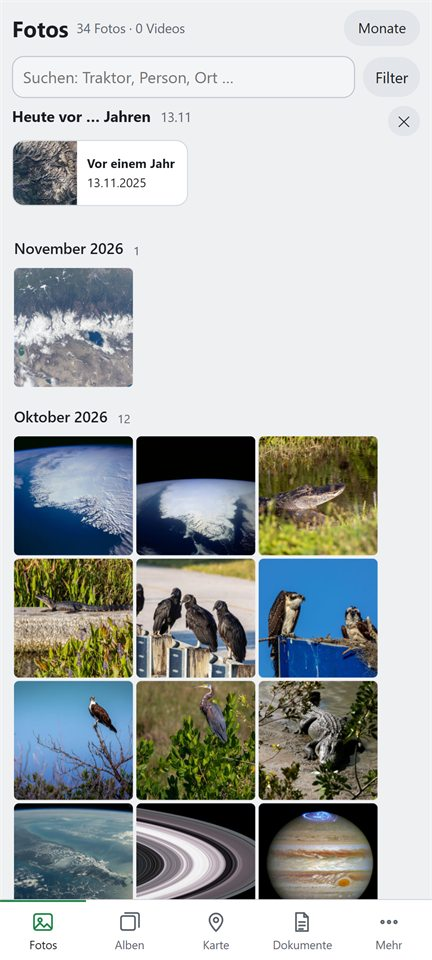
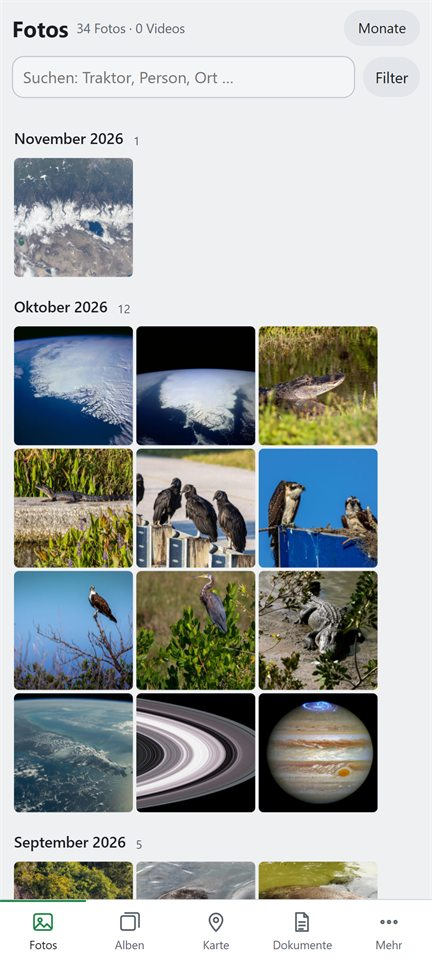
Webseite: Nutzungsbedingungen DE/EN, Bild 1 ohne Rueckblick
nutzungsbedingungen.html und terms.html neu, Link in der Fusszeile;
Bild 1 und Untertitel "Nach Tag, Monat oder Jahr." / "By day, month or year."

diff --git a/nutzungsbedingungen.html b/nutzungsbedingungen.html
@@ -1,0 +1,89 @@
+<!doctype html>
+<html lang="de">
+<head>
+<meta charset="utf-8">
+<meta name="viewport" content="width=device-width, initial-scale=1">
+<title>Unforget – Nutzungsbedingungen</title>
+<link rel="alternate" hreflang="en" href="terms.html">
+<style>
+  :root { --bg:#ffffff; --fg:#1d2024; --muted:#5b636d; --line:#dde1e6; --accent:#1f8a4c; --box:#f3f5f7; }
+  @media (prefers-color-scheme: dark) { :root { --bg:#1d2024; --fg:#e8eaed; --muted:#a6adb6; --line:#363b42; --accent:#4cc27e; --box:#262a30; } }
+  body { margin:0; background:var(--bg); color:var(--fg); font:16px/1.6 system-ui, -apple-system, "Segoe UI", Roboto, sans-serif; }
+  main { max-width:760px; margin:0 auto; padding:24px 16px 64px; }
+  h1 { font-size:1.7em; margin:0 0 4px; } h2 { font-size:1.2em; margin:32px 0 8px; }
+  .lang { float:right; font-size:.9em; } a { color:var(--accent); }
+  .meta { color:var(--muted); margin:0 0 24px; }
+  ul { padding-left:1.3em; } li { margin:4px 0; }
+</style>
+</head>
+<body>
+<main>
+<a class="lang" href="terms.html" lang="en">English</a>
+<p style="margin:0 0 8px"><a href="de.html">← Unforget Startseite</a></p>
+<h1>Nutzungsbedingungen</h1>
+<p class="meta">für die App Unforget (Windows und Android) · Stand: 16. November 2026</p>
+
+<h2>1. Anbieter und Geltung</h2>
+<p>Unforget wird angeboten von MT-Automation, Inhaber Michael Thallmayer, Österreich (vollständige Angaben im
+<a href="impressum.html">Impressum</a>). Diese Bedingungen gelten für die Nutzung der App, egal ob du sie über Google Play,
+über GitHub oder über diese Webseite bekommst. Für Google Play gelten zusätzlich die Bedingungen von Google.</p>
+
+<h2>2. Kostenlos, Urheberrecht</h2>
+<p>Unforget ist kostenlos. Es gibt kein Konto, kein Abo, keine Werbung und keine Käufe in der App.</p>
+<p>Unforget ist urheberrechtlich geschützt. Enthaltene Teile anderer Hersteller haben eigene Lizenzen
+(<i>Einstellungen → Über → Lizenzen anzeigen</i>).</p>
+
+<h2>3. Verarbeitung nur auf deinem Gerät</h2>
+<p>Unforget verarbeitet deine Fotos, Videos und Dokumente auf deinem Gerät: Vorschaubilder, Gesichter, Texterkennung und
+Suche laufen lokal. Es werden keine Fotos oder Dokumente an uns oder an Dritte übertragen. Der Abgleich zwischen Handy und PC
+läuft direkt zwischen deinen Geräten im eigenen WLAN.</p>
+<p>Einige Funktionen nutzen auf deinen Wunsch das Internet; sie sind in der App mit 🌐 gekennzeichnet und anfangs aus
+(z. B. Kartenhintergrund und Ortsnamen von OpenStreetMap, Zusatzpakete und Updates von GitHub). Dafür gelten zusätzlich die
+Bedingungen dieser Dienste. Einzelheiten stehen in der <a href="datenschutz.html">Datenschutzerklärung</a>.</p>
+
+<h2>4. Deine Dateien</h2>
+<ul>
+  <li>Unforget liest deine Dateien. Verschoben, umbenannt, verändert oder gelöscht wird nur, wenn du es selbst auslöst
+    (z. B. Ordnen, Löschen, Bearbeiten „statt des Originals“, Ordner für den Handy-Abgleich).</li>
+  <li>Vor dem Ordnen zeigt die App eine Vorschau; ein Lauf lässt sich im Verlauf zurücknehmen.</li>
+  <li>Gelöschte Dateien kommen zuerst in den Papierkorb von Unforget und lassen sich von dort wiederherstellen. Endgültig
+    gelöscht wird erst, wenn du den Papierkorb leerst.</li>
+  <li>Du bist dafür verantwortlich, dass du die Dateien verwenden darfst, die du mit Unforget verwaltest oder weitergibst
+    (z. B. beim Teilen von Alben).</li>
+</ul>
+
+<h2>5. Sicherungen</h2>
+<p>Wir empfehlen dringend, von wichtigen Fotos und Dokumenten regelmäßig eine Sicherung anzulegen, die unabhängig von Unforget
+ist – zum Beispiel auf einer externen Festplatte oder einem NAS. Auch die Fotosicherung über den Handy-Abgleich ersetzt keine
+zweite, getrennte Sicherung, weil beide Geräte gleichzeitig verloren gehen oder beschädigt werden können.</p>
+
+<h2>6. Verfügbarkeit und Änderungen</h2>
+<p>Wir entwickeln Unforget laufend weiter. Es besteht kein Anspruch auf bestimmte Funktionen, auf Updates oder auf eine
+unterbrechungsfreie Verfügbarkeit von Downloads und Online-Funktionen. Updates installierst du selbst (über Google Play oder
+nach Rückfrage in der App).</p>
+
+<h2>7. Haftung</h2>
+<p>Unforget wird unentgeltlich überlassen. Wir haften im gesetzlich zulässigen Rahmen nach österreichischem Recht. Für leicht
+fahrlässig verursachte Schäden haften wir nicht. Diese Einschränkung gilt nicht</p>
+<ul>
+  <li>bei Vorsatz und grober Fahrlässigkeit,</li>
+  <li>bei Schäden an Leben, Körper oder Gesundheit (Personenschäden),</li>
+  <li>soweit zwingende gesetzliche Bestimmungen etwas anderes vorsehen, insbesondere das Produkthaftungsgesetz und das
+    Konsumentenschutzgesetz. Deine Rechte als Verbraucherin oder Verbraucher bleiben unberührt.</li>
+</ul>
+
+<h2>8. Anwendbares Recht</h2>
+<p>Es gilt österreichisches Recht unter Ausschluss der Verweisungsnormen und des UN-Kaufrechts. Bist du Verbraucherin oder
+Verbraucher mit gewöhnlichem Aufenthalt in einem anderen Staat, bleibt dir der Schutz der zwingenden Bestimmungen dieses
+Staates erhalten.</p>
+
+<h2>9. Änderungen dieser Bedingungen</h2>
+<p>Wir können diese Bedingungen anpassen, etwa bei neuen Funktionen. Die jeweils aktuelle Fassung steht auf dieser Seite, mit
+Datum.</p>
+
+<h2>10. Kontakt</h2>
+<p>Fragen und Rückmeldungen: <a href="mailto:support@mt-automation.at">support@mt-automation.at</a> oder in der App unter
+<i>Einstellungen → Über → Problem melden</i>.</p>
+</main>
+</body>
+</html>

diff --git a/terms.html b/terms.html
@@ -1,0 +1,87 @@
+<!doctype html>
+<html lang="en">
+<head>
+<meta charset="utf-8">
+<meta name="viewport" content="width=device-width, initial-scale=1">
+<title>Unforget – Terms of use</title>
+<link rel="alternate" hreflang="de" href="nutzungsbedingungen.html">
+<style>
+  :root { --bg:#ffffff; --fg:#1d2024; --muted:#5b636d; --line:#dde1e6; --accent:#1f8a4c; --box:#f3f5f7; }
+  @media (prefers-color-scheme: dark) { :root { --bg:#1d2024; --fg:#e8eaed; --muted:#a6adb6; --line:#363b42; --accent:#4cc27e; --box:#262a30; } }
+  body { margin:0; background:var(--bg); color:var(--fg); font:16px/1.6 system-ui, -apple-system, "Segoe UI", Roboto, sans-serif; }
+  main { max-width:760px; margin:0 auto; padding:24px 16px 64px; }
+  h1 { font-size:1.7em; margin:0 0 4px; } h2 { font-size:1.2em; margin:32px 0 8px; }
+  .lang { float:right; font-size:.9em; } a { color:var(--accent); }
+  .meta { color:var(--muted); margin:0 0 24px; }
+  ul { padding-left:1.3em; } li { margin:4px 0; }
+</style>
+</head>
+<body>
+<main>
+<a class="lang" href="nutzungsbedingungen.html" lang="de">Deutsch</a>
+<p style="margin:0 0 8px"><a href="index.html?en">← Unforget home</a></p>
+<h1>Terms of use</h1>
+<p class="meta">for the Unforget app (Windows and Android) · Last updated: 16 November 2026 · The German version is legally binding.</p>
+
+<h2>1. Provider and scope</h2>
+<p>Unforget is provided by MT-Automation, owner Michael Thallmayer, Austria (full details in the <a href="imprint.html">imprint</a>).
+These terms apply to the use of the app, whether you get it from Google Play, from GitHub or from this website. For Google Play,
+Google’s terms apply as well.</p>
+
+<h2>2. Free of charge, copyright</h2>
+<p>Unforget is free. There is no account, no subscription, no advertising and no in-app purchases.</p>
+<p>Unforget is protected by copyright. Included components by other authors have their own licenses
+(<i>Settings → About → Show licenses</i>).</p>
+
+<h2>3. Processing on your device only</h2>
+<p>Unforget processes your photos, videos and documents on your device: thumbnails, faces, text recognition and search run
+locally. No photos or documents are transferred to us or to third parties. Sync between phone and PC runs directly between your
+devices on your own Wi-Fi.</p>
+<p>Some features use the internet if you turn them on; they are marked with 🌐 in the app and off by default (for example the map
+background and place names from OpenStreetMap, add-on packs and updates from GitHub). The terms of those services apply as well.
+Details are in the <a href="privacy.html">privacy policy</a>.</p>
+
+<h2>4. Your files</h2>
+<ul>
+  <li>Unforget reads your files. Files are only moved, renamed, changed or deleted when you trigger it yourself
+    (for example Organize, Delete, Edit “replace original”, folders for phone sync).</li>
+  <li>Before organizing, the app shows a preview; a run can be undone from the history.</li>
+  <li>Deleted files first go to Unforget’s trash and can be restored from there. They are only deleted for good when you empty
+    the trash.</li>
+  <li>You are responsible for having the right to use the files you manage or share with Unforget (for example when sharing
+    albums).</li>
+</ul>
+
+<h2>5. Backups</h2>
+<p>We strongly recommend keeping a regular backup of important photos and documents that is independent of Unforget – for example
+on an external drive or a NAS. The photo backup via phone sync does not replace a second, separate backup either, because both
+devices can be lost or damaged at the same time.</p>
+
+<h2>6. Availability and changes</h2>
+<p>We keep developing Unforget. There is no entitlement to particular features, to updates or to uninterrupted availability of
+downloads and online features. You install updates yourself (via Google Play or after confirming in the app).</p>
+
+<h2>7. Liability</h2>
+<p>Unforget is provided free of charge. We are liable to the extent permitted by law under Austrian law. We are not liable for
+damage caused by slight negligence. This limitation does not apply</p>
+<ul>
+  <li>in cases of intent and gross negligence,</li>
+  <li>to injury to life, body or health (personal injury),</li>
+  <li>where mandatory statutory provisions provide otherwise, in particular the Austrian Product Liability Act and the Consumer
+    Protection Act. Your rights as a consumer remain unaffected.</li>
+</ul>
+
+<h2>8. Applicable law</h2>
+<p>Austrian law applies, excluding its conflict-of-law rules and the UN Convention on Contracts for the International Sale of
+Goods. If you are a consumer habitually resident in another country, you keep the protection of the mandatory provisions of that
+country.</p>
+
+<h2>9. Changes to these terms</h2>
+<p>We may update these terms, for example for new features. The current version is always on this page, with its date.</p>
+
+<h2>10. Contact</h2>
+<p>Questions and feedback: <a href="mailto:support@mt-automation.at">support@mt-automation.at</a> or in the app under
+<i>Settings → About → Report a problem</i>.</p>
+</main>
+</body>
+</html>

diff --git a/de.html b/de.html
@@ -79,7 +79,7 @@
 <main class="wrap">
   <h2>Ein Blick hinein</h2>
   <ul class="shots">
-    <li><img src="img/de/1-fotos.jpg" alt="Fotos nach Monaten mit „Heute vor … Jahren“" loading="lazy" width="432" height="960"><b>Alle deine Fotos.</b><span>Nach Tag, Monat oder Jahr – mit „Heute vor … Jahren“.</span></li>
+    <li><img src="img/de/1-fotos.jpg" alt="Fotos nach Monaten" loading="lazy" width="432" height="960"><b>Alle deine Fotos.</b><span>Nach Tag, Monat oder Jahr.</span></li>
     <li><img src="img/de/2-suche.jpg" alt="Suche nach „Gletscher“ findet passende Bilder" loading="lazy" width="432" height="960"><b>Alles finden.</b><span>Suche nach dem, was auf dem Bild ist – direkt am Handy.</span></li>
     <li><img src="img/de/3-alben.jpg" alt="Automatische Alben für Ausflüge und Urlaube" loading="lazy" width="432" height="960"><b>Alben, die sich selbst ordnen.</b><span>Urlaube und Ausflüge, erkannt an Datum und Ort.</span></li>
     <li><img src="img/de/5-bearbeiten.jpg" alt="Foto zuschneiden und geraderichten" loading="lazy" width="432" height="960"><b>Zuschneiden mit einem Tipp.</b><span>Zuschneiden, drehen, spiegeln, geraderichten – das Original ist zurückholbar.</span></li>
@@ -110,7 +110,7 @@
 </main>
 
 <footer><div class="wrap">
-  <a href="datenschutz.html">Datenschutz</a><a href="impressum.html">Impressum</a><a href="mailto:support@mt-automation.at">support@mt-automation.at</a><br>
+  <a href="datenschutz.html">Datenschutz</a><a href="nutzungsbedingungen.html">Nutzungsbedingungen</a><a href="impressum.html">Impressum</a><a href="mailto:support@mt-automation.at">support@mt-automation.at</a><br>
   MT-Automation, Rauchenwarth, Österreich
 </div></footer>
 </body>

diff --git a/index.html b/index.html
@@ -83,7 +83,7 @@
 <main class="wrap">
   <h2>A look inside</h2>
   <ul class="shots">
-    <li><img src="img/en/1-fotos.jpg" alt="Photo timeline with “On this day”" loading="lazy" width="432" height="960"><b>All your photos.</b><span>By day, month or year – “On this day” included.</span></li>
+    <li><img src="img/en/1-fotos.jpg" alt="Photo timeline by month" loading="lazy" width="432" height="960"><b>All your photos.</b><span>By day, month or year.</span></li>
     <li><img src="img/en/2-suche.jpg" alt="Search for “glacier” finds matching pictures" loading="lazy" width="432" height="960"><b>Find anything.</b><span>Search by what’s in the picture – on the phone.</span></li>
     <li><img src="img/en/3-alben.jpg" alt="Automatic albums for trips and holidays" loading="lazy" width="432" height="960"><b>Albums that make themselves.</b><span>Holidays and day trips, detected by date and place.</span></li>
     <li><img src="img/en/5-bearbeiten.jpg" alt="Crop and straighten a photo" loading="lazy" width="432" height="960"><b>Crop and rotate.</b><span>Crop, rotate, flip, straighten – the original can be restored.</span></li>
@@ -114,7 +114,7 @@
 </main>
 
 <footer><div class="wrap">
-  <a href="privacy.html">Privacy policy</a><a href="imprint.html">Imprint</a><a href="mailto:support@mt-automation.at">support@mt-automation.at</a><br>
+  <a href="privacy.html">Privacy policy</a><a href="terms.html">Terms of use</a><a href="imprint.html">Imprint</a><a href="mailto:support@mt-automation.at">support@mt-automation.at</a><br>
   MT-Automation, Rauchenwarth, Austria
 </div></footer>
 </body>
